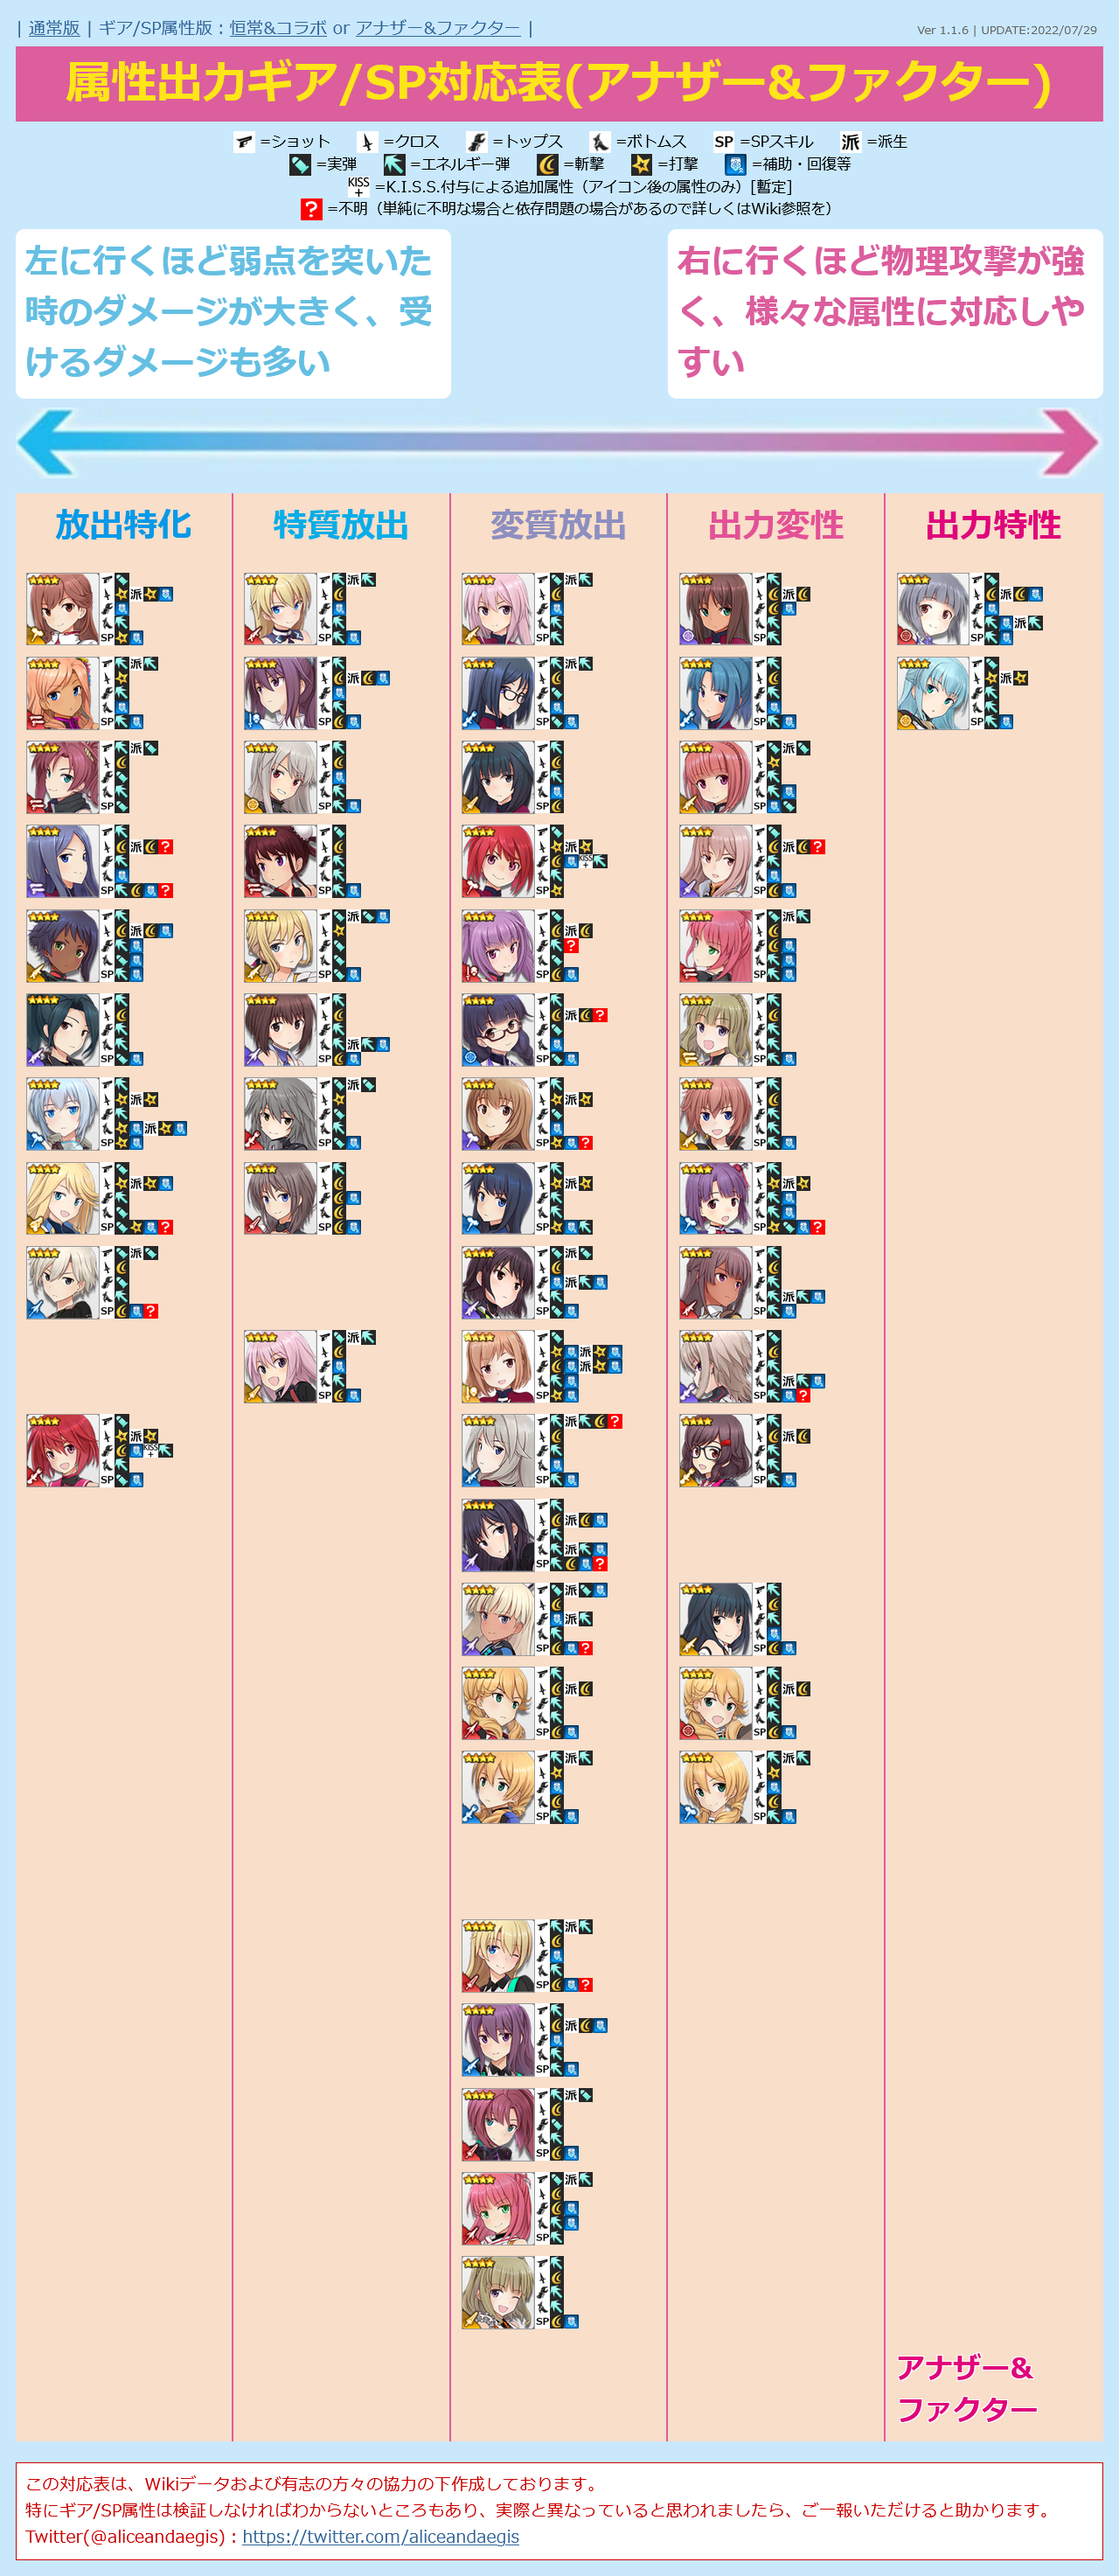
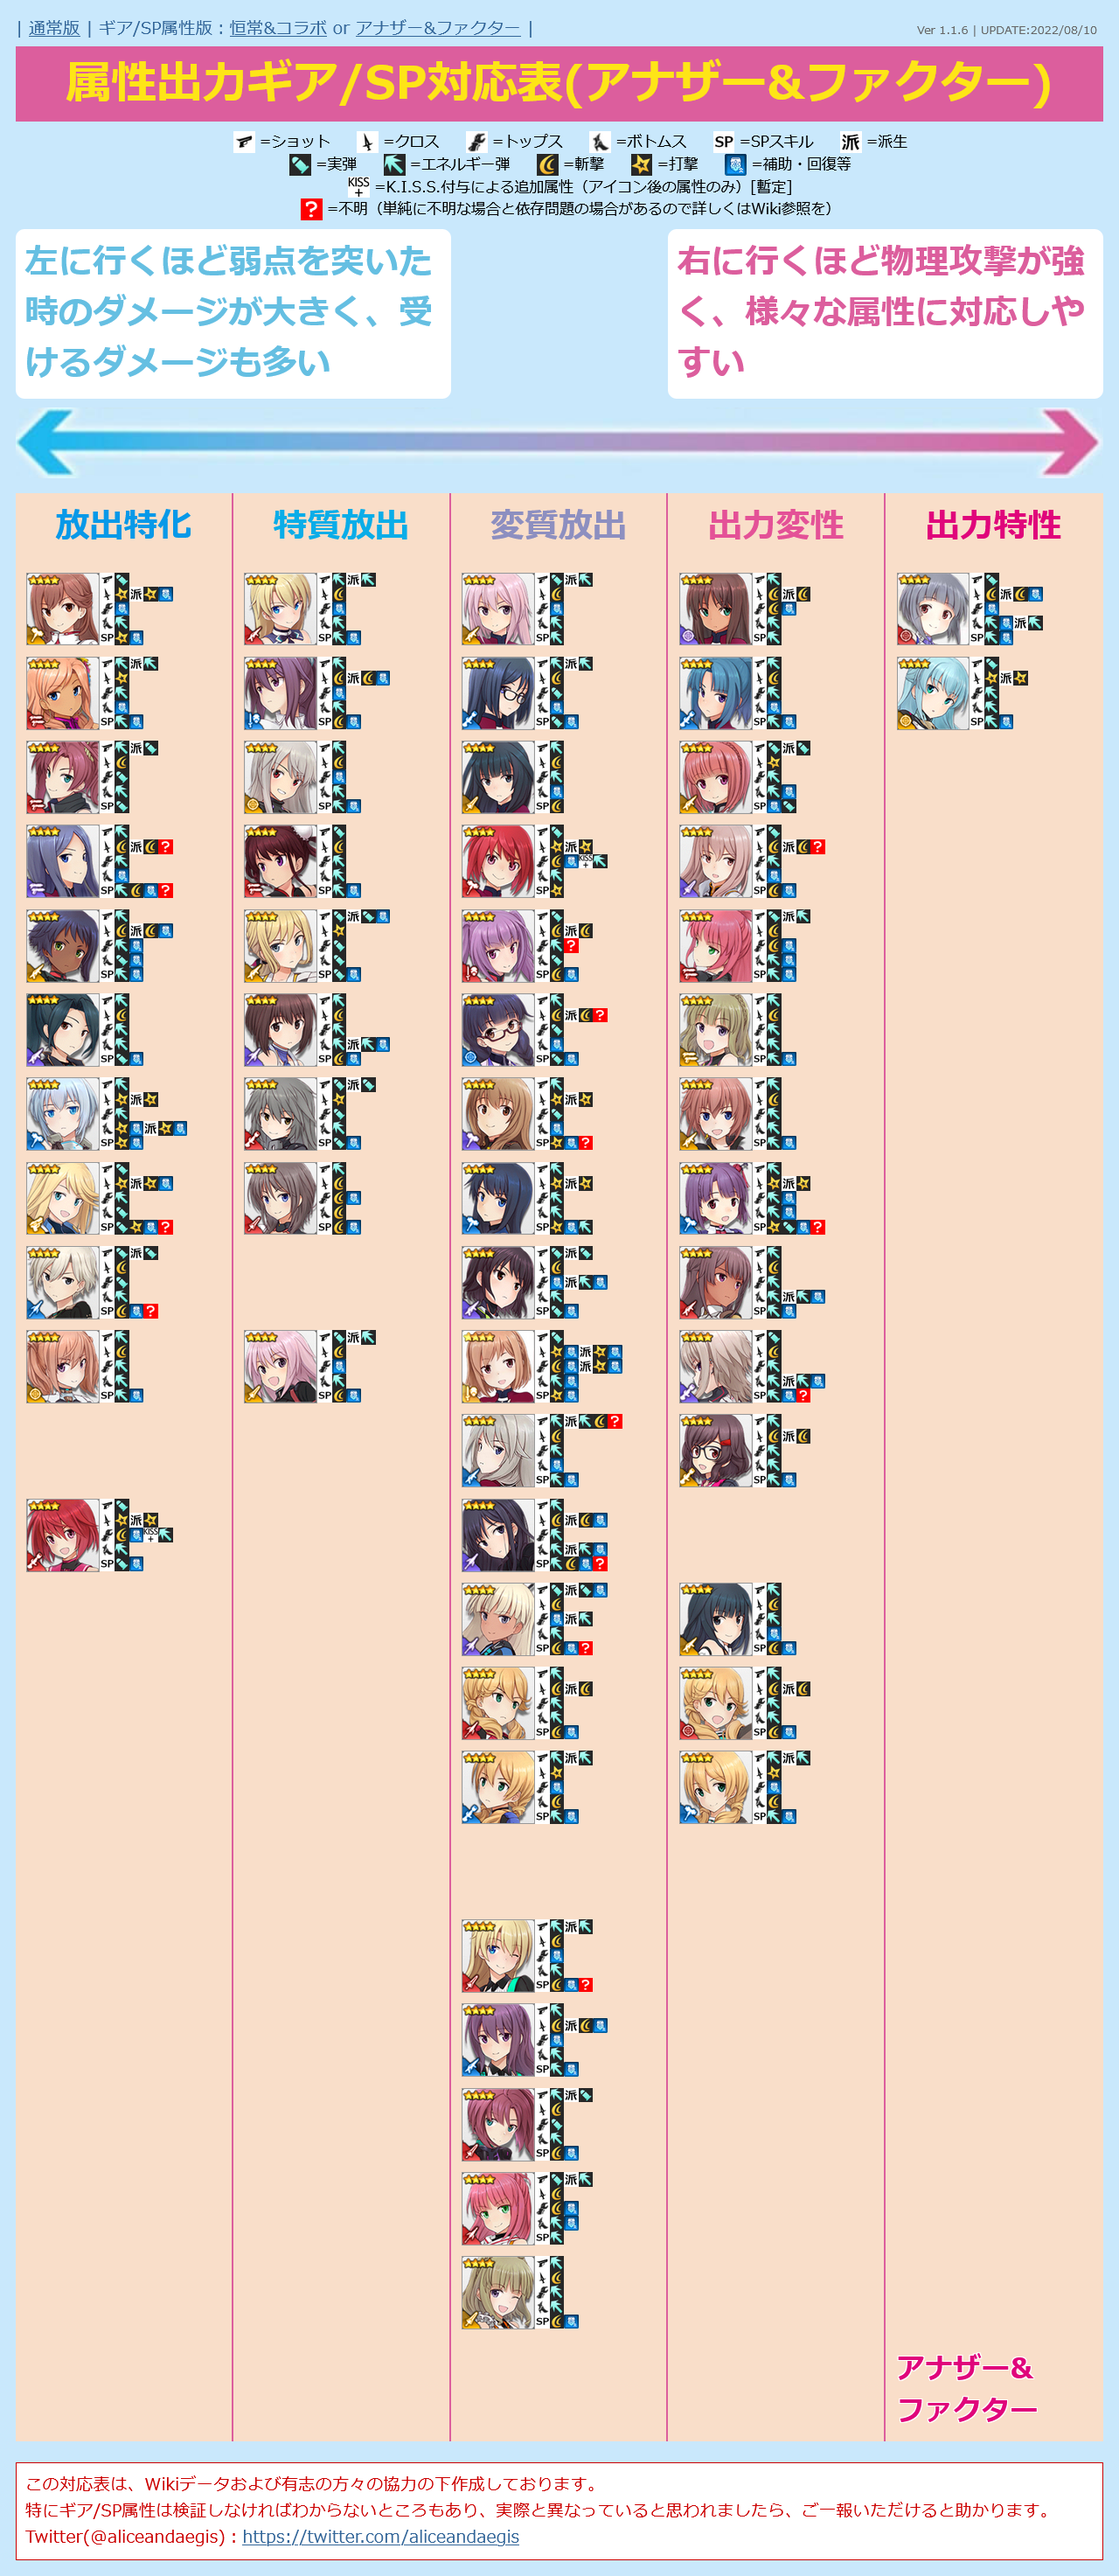
UPDATE charadata
・アナザー 君影 唯 / 連理を追加

Changed region(s): [[0.0, 0.4997, 0.1562, 0.6246]]

diff --git a/alice.html b/alice.html
@@ -12,7 +12,7 @@
   <script>
 
 /* 更新情報 必要に応じて書き換えてください */
-  var version = "Ver 1.1.6 | UPDATE:2022/07/29";
+  var version = "Ver 1.1.6 | UPDATE:2022/08/10";
 
 
 /*
@@ -1409,6 +1409,20 @@
       "attr": "1",
       "link": "https://wikiwiki.jp/alicegear/%E5%90%9B%E5%BD%B1%E5%94%AF",
       "category": ""
+    },
+    {
+      "id": "44",
+      "type": "1",
+      "src": "another-yui.png",
+      "name": "君影 唯 / 連理",
+      "equip1": "2",
+      "equip2": "3",
+      "equip3": "2",
+      "equip4": "2",
+      "sp": "25",
+      "attr": "1",
+      "link": "https://wikiwiki.jp/alicegear/%E5%90%9B%E5%BD%B1%E5%94%AF%E9%80%A3%E7%90%86",
+      "category": "10"
     },
     {
       "id": "45",
